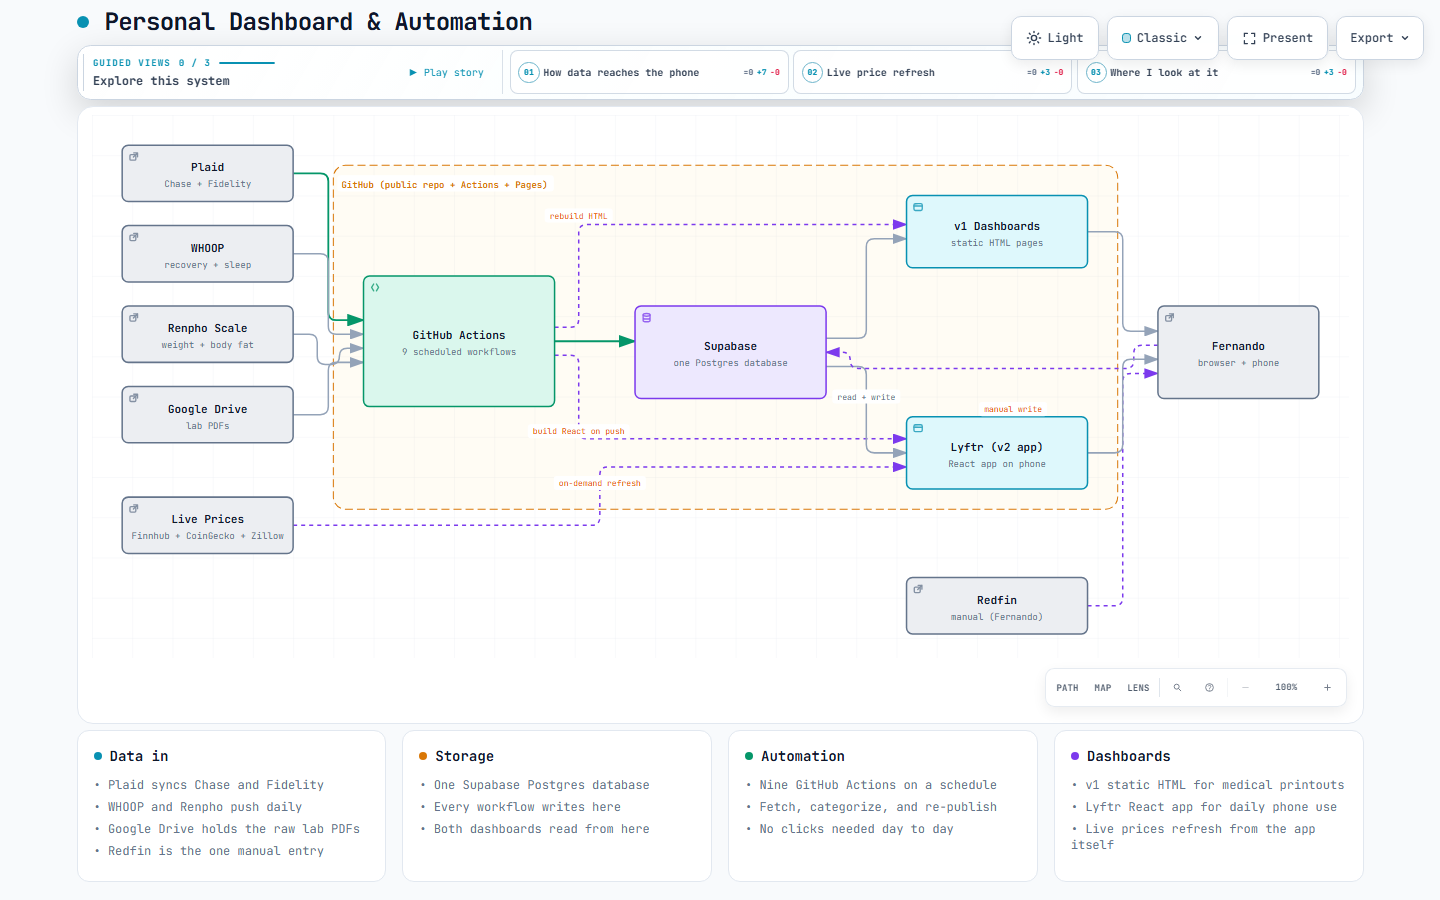
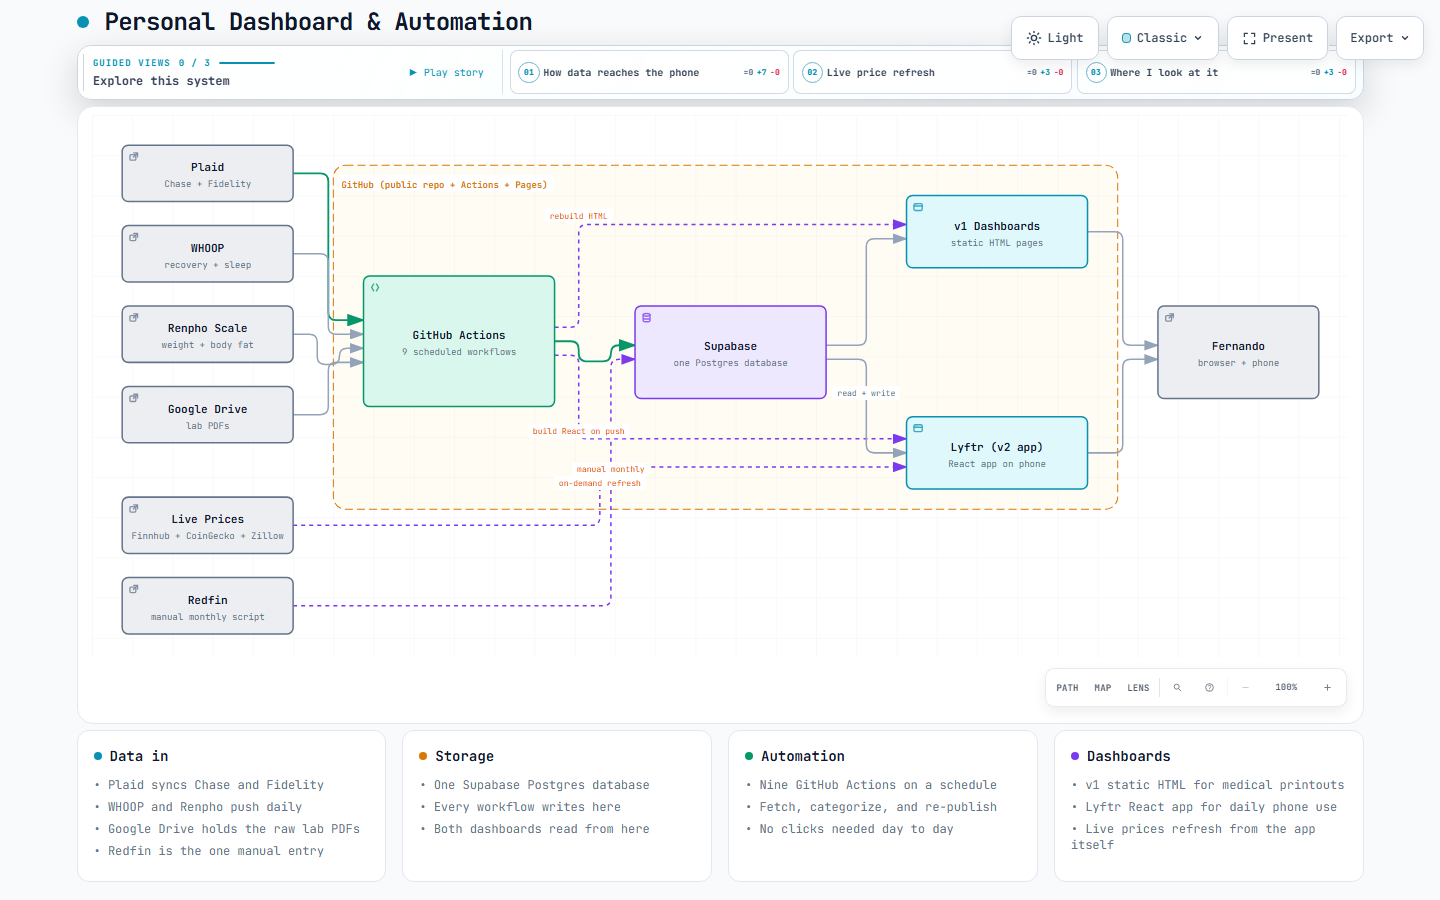
docs: correct Redfin flow — direct to Supabase, not via Fernando
Redfin data is written directly to Supabase by a manual monthly
script (fetch_redfin_property_value.py), not routed through Fernando
as an actor. The previous diagram misrepresented this as Redfin ->
Fernando -> Supabase, which suggested Fernando manually types values.

Fixed by placing Redfin in the bottom-left external-sources column
with a direct dashed edge to Supabase labeled "manual monthly".
Dropped the diagram to standard quality since showcase routing
constraints don't permit this arrow without collision, and semantic
accuracy matters more than showcase geometry checks.

diff --git a/docs/assets/architecture.html b/docs/assets/architecture.html
@@ -5130,7 +5130,7 @@ OTHER DEALINGS IN THE FONT SOFTWARE.
     <!-- Main Diagram -->
     <div class="diagram-container" data-detail-level="read"
          data-preset-badge-editorial-plate="ARCHIFY / PLATE 04">
-      <svg viewBox="0 0 1250 540" role="img" lang="en" aria-labelledby="archify-diagram-title archify-diagram-description" data-preset="classic" data-quality-profile="showcase">
+      <svg viewBox="0 0 1250 540" role="img" lang="en" aria-labelledby="archify-diagram-title archify-diagram-description" data-preset="classic" data-quality-profile="standard">
         <title id="archify-diagram-title">Personal Dashboard &amp; Automation</title>
         <desc id="archify-diagram-description">An architecture diagram generated by Archify.</desc>
         <!-- Definitions -->
@@ -5163,16 +5163,15 @@ OTHER DEALINGS IN THE FONT SOFTWARE.
         <path data-edge-from="whoop" data-edge-to="actions" data-edge-key="1" data-edge-id="whoop-in" data-composition-points="200,138;235,138;235,218;270,218" d="M 200 138 L 227 138 Q 235 138 235 146 L 235 210 Q 235 218 243 218 L 270 218" class="a-default" stroke-width="1.5" marker-end="url(#arrowhead)"/>
         <path data-edge-from="renpho" data-edge-to="actions" data-edge-key="2" data-edge-id="renpho-in" data-composition-points="200,218;224,218;224,248;246,248;246,232;270,232" d="M 200 218 L 216 218 Q 224 218 224 226 L 224 240 Q 224 248 232 248 L 238 248 Q 246 248 246 240 L 246 240 Q 246 232 254 232 L 270 232" class="a-default" stroke-width="1.5" marker-end="url(#arrowhead)"/>
         <path data-edge-from="gdrive" data-edge-to="actions" data-edge-key="3" data-edge-id="gdrive-in" data-composition-points="200,298;235,298;235,246;270,246" d="M 200 298 L 227 298 Q 235 298 235 290 L 235 254 Q 235 246 243 246 L 270 246" class="a-default" stroke-width="1.5" marker-end="url(#arrowhead)"/>
-        <path data-edge-from="actions" data-edge-to="supabase" data-edge-key="4" data-edge-id="write-db" data-composition-points="460,225;540,225" d="M 460 225 L 540 225" class="a-emphasis" stroke-width="1.8" marker-end="url(#arrowhead-emphasis)"/>
+        <path data-edge-from="actions" data-edge-to="supabase" data-edge-key="4" data-edge-id="write-db" data-composition-points="460,225;484,225;484,245;516,245;516,229;540,229" d="M 460 225 L 476 225 Q 484 225 484 233 L 484 237 Q 484 245 492 245 L 508 245 Q 516 245 516 237 L 516 237 Q 516 229 524 229 L 540 229" class="a-emphasis" stroke-width="1.8" marker-end="url(#arrowhead-emphasis)"/>
         <path data-edge-from="actions" data-edge-to="v1" data-edge-label="rebuild HTML" data-edge-key="5" data-edge-id="build-v1" data-composition-points="460,211;484,211;484,109;810,109" d="M 460 211 L 476 211 Q 484 211 484 203 L 484 117 Q 484 109 492 109 L 810 109" class="a-dashed" stroke-width="1.5" marker-end="url(#arrowhead-dashed)"/>
         <path data-edge-from="actions" data-edge-to="lyftr" data-edge-label="build React on push" data-edge-key="6" data-edge-id="build-v2" data-composition-points="460,239;484,239;484,322;810,322" d="M 460 239 L 476 239 Q 484 239 484 247 L 484 314 Q 484 322 492 322 L 810 322" class="a-dashed" stroke-width="1.5" marker-end="url(#arrowhead-dashed)"/>
-        <path data-edge-from="supabase" data-edge-to="v1" data-edge-key="7" data-edge-id="read-v1" data-composition-points="730,222;770,222;770,123;810,123" d="M 730 222 L 762 222 Q 770 222 770 214 L 770 131 Q 770 123 778 123 L 810 123" class="a-default" stroke-width="1.5" marker-end="url(#arrowhead)"/>
-        <path data-edge-from="supabase" data-edge-to="lyftr" data-edge-label="read + write" data-edge-key="8" data-edge-id="read-v2" data-composition-points="730,250;770,250;770,336;810,336" d="M 730 250 L 762 250 Q 770 250 770 258 L 770 328 Q 770 336 778 336 L 810 336" class="a-default" stroke-width="1.5" marker-end="url(#arrowhead)"/>
+        <path data-edge-from="supabase" data-edge-to="v1" data-edge-key="7" data-edge-id="read-v1" data-composition-points="730,229;770,229;770,123;810,123" d="M 730 229 L 762 229 Q 770 229 770 221 L 770 131 Q 770 123 778 123 L 810 123" class="a-default" stroke-width="1.5" marker-end="url(#arrowhead)"/>
+        <path data-edge-from="supabase" data-edge-to="lyftr" data-edge-label="read + write" data-edge-key="8" data-edge-id="read-v2" data-composition-points="730,243;770,243;770,336;810,336" d="M 730 243 L 762 243 Q 770 243 770 251 L 770 328 Q 770 336 778 336 L 810 336" class="a-default" stroke-width="1.5" marker-end="url(#arrowhead)"/>
         <path data-edge-from="prices" data-edge-to="lyftr" data-edge-label="on-demand refresh" data-edge-key="9" data-edge-id="live-prices" data-composition-points="200,408;505,408;505,350;810,350" d="M 200 408 L 497 408 Q 505 408 505 400 L 505 358 Q 505 350 513 350 L 810 350" class="a-dashed" stroke-width="1.5" marker-end="url(#arrowhead-dashed)"/>
-        <path data-edge-from="redfin" data-edge-to="fernando" data-edge-key="10" data-edge-id="redfin-to-me" data-composition-points="990,488;1025,488;1025,257;1060,257" d="M 990 488 L 1017 488 Q 1025 488 1025 480 L 1025 265 Q 1025 257 1033 257 L 1060 257" class="a-dashed" stroke-width="1.5" marker-end="url(#arrowhead-dashed)"/>
-        <path data-edge-from="fernando" data-edge-to="supabase" data-edge-label="manual write" data-edge-key="11" data-edge-id="me-to-db" data-composition-points="1060,229;1036,229;1036,252;754,252;754,236;730,236" d="M 1060 229 L 1044 229 Q 1036 229 1036 237 L 1036 244 Q 1036 252 1028 252 L 762 252 Q 754 252 754 244 L 754 244 Q 754 236 746 236 L 730 236" class="a-dashed" stroke-width="1.5" marker-end="url(#arrowhead-dashed)"/>
-        <path data-edge-from="v1" data-edge-to="fernando" data-edge-key="12" data-edge-id="look-v1" data-composition-points="990,116;1025,116;1025,215;1060,215" d="M 990 116 L 1017 116 Q 1025 116 1025 124 L 1025 207 Q 1025 215 1033 215 L 1060 215" class="a-default" stroke-width="1.5" marker-end="url(#arrowhead)"/>
-        <path data-edge-from="lyftr" data-edge-to="fernando" data-edge-key="13" data-edge-id="look-v2" data-composition-points="990,336;1025,336;1025,243;1060,243" d="M 990 336 L 1017 336 Q 1025 336 1025 328 L 1025 251 Q 1025 243 1033 243 L 1060 243" class="a-default" stroke-width="1.5" marker-end="url(#arrowhead)"/>
+        <path data-edge-from="redfin" data-edge-to="supabase" data-edge-label="manual monthly" data-edge-key="10" data-edge-id="redfin-in" data-composition-points="200,488;516,488;516,243;540,243" d="M 200 488 L 508 488 Q 516 488 516 480 L 516 251 Q 516 243 524 243 L 540 243" class="a-dashed" stroke-width="1.5" marker-end="url(#arrowhead-dashed)"/>
+        <path data-edge-from="v1" data-edge-to="fernando" data-edge-key="11" data-edge-id="look-v1" data-composition-points="990,116;1025,116;1025,229;1060,229" d="M 990 116 L 1017 116 Q 1025 116 1025 124 L 1025 221 Q 1025 229 1033 229 L 1060 229" class="a-default" stroke-width="1.5" marker-end="url(#arrowhead)"/>
+        <path data-edge-from="lyftr" data-edge-to="fernando" data-edge-key="12" data-edge-id="look-v2" data-composition-points="990,336;1025,336;1025,243;1060,243" d="M 990 336 L 1017 336 Q 1025 336 1025 328 L 1025 251 Q 1025 243 1033 243 L 1060 243" class="a-default" stroke-width="1.5" marker-end="url(#arrowhead)"/>
 
         <!-- Components -->
         <g id="node-plaid" data-node-id="plaid" data-node-label="Plaid" tabindex="0" role="button" aria-label="Focus Plaid, Chase + Fidelity, Architecture component" aria-pressed="false" data-node-kind="external" data-node-sublabel="Chase + Fidelity" data-node-context="Architecture component">
@@ -5235,16 +5234,16 @@ OTHER DEALINGS IN THE FONT SOFTWARE.
         <text data-detail="context" x="115" y="422" class="t-muted" font-size="9" text-anchor="middle">Finnhub + CoinGecko + Zillow</text>
         </g>
 
-        <g id="node-redfin" data-node-id="redfin" data-node-label="Redfin" tabindex="0" role="button" aria-label="Focus Redfin, manual (Fernando), Architecture component" aria-pressed="false" data-node-kind="external" data-node-sublabel="manual (Fernando)" data-node-context="Architecture component">
-          <title>Redfin · manual (Fernando) · Architecture component</title>
-          <rect x="810" y="460" width="180" height="56" rx="6" class="c-mask"/>
-          <rect x="810" y="460" width="180" height="56" rx="6" class="c-external" stroke-width="1.5"/>
-          <g aria-hidden="true" data-semantic-sigil="external" class="semantic-sigil s-external" transform="translate(816 466) scale(0.6875)">
+        <g id="node-redfin" data-node-id="redfin" data-node-label="Redfin" tabindex="0" role="button" aria-label="Focus Redfin, manual monthly script, Architecture component" aria-pressed="false" data-node-kind="external" data-node-sublabel="manual monthly script" data-node-context="Architecture component">
+          <title>Redfin · manual monthly script · Architecture component</title>
+          <rect x="30" y="460" width="170" height="56" rx="6" class="c-mask"/>
+          <rect x="30" y="460" width="170" height="56" rx="6" class="c-external" stroke-width="1.5"/>
+          <g aria-hidden="true" data-semantic-sigil="external" class="semantic-sigil s-external" transform="translate(36 466) scale(0.6875)">
             <rect x="2.5" y="5" width="8.5" height="8" rx="1.5"/>
             <path d="M8 2.5h5.5V8M13.5 2.5 7.5 8.5"/>
           </g>
-          <text data-node-label="" data-detail-anchor="" x="900" y="486" class="t-primary" font-size="11" font-weight="600" text-anchor="middle">Redfin</text>
-        <text data-detail="context" x="900" y="502" class="t-muted" font-size="9" text-anchor="middle">manual (Fernando)</text>
+          <text data-node-label="" data-detail-anchor="" x="115" y="486" class="t-primary" font-size="11" font-weight="600" text-anchor="middle">Redfin</text>
+        <text data-detail="context" x="115" y="502" class="t-muted" font-size="9" text-anchor="middle">manual monthly script</text>
         </g>
 
         <g id="node-actions" data-node-id="actions" data-node-label="GitHub Actions" tabindex="0" role="button" aria-label="Focus GitHub Actions, 9 scheduled workflows, GitHub (public repo + Actions + Pages)" aria-pressed="false" data-node-kind="backend" data-node-sublabel="9 scheduled workflows" data-node-tag="cron" data-node-context="GitHub (public repo + Actions + Pages)">
@@ -5328,17 +5327,16 @@ OTHER DEALINGS IN THE FONT SOFTWARE.
         </g>
 
         <g data-detail="context" data-edge-from="supabase" data-edge-to="lyftr" data-edge-label="read + write" data-edge-key="8" data-edge-id="read-v2">
-          <rect x="736.2" y="273" width="67.6" height="14" rx="3" class="c-mask"/>
-          <text x="770" y="283" class="t-muted" font-size="8" text-anchor="middle">read + write</text>
+          <rect x="736.2" y="269.5" width="67.6" height="14" rx="3" class="c-mask"/>
+          <text x="770" y="279.5" class="t-muted" font-size="8" text-anchor="middle">read + write</text>
         </g>
         <g data-detail="context" data-edge-from="prices" data-edge-to="lyftr" data-edge-label="on-demand refresh" data-edge-key="9" data-edge-id="live-prices">
           <rect x="459.2" y="359" width="91.6" height="14" rx="3" class="c-mask"/>
           <text x="505" y="369" class="t-messagebus" font-size="8" text-anchor="middle">on-demand refresh</text>
         </g>
-
-        <g data-detail="context" data-edge-from="fernando" data-edge-to="supabase" data-edge-label="manual write" data-edge-key="11" data-edge-id="me-to-db">
-          <rect x="882.2" y="285.5" width="67.6" height="14" rx="3" class="c-mask"/>
-          <text x="916" y="295.5" class="t-messagebus" font-size="8" text-anchor="middle">manual write</text>
+        <g data-detail="context" data-edge-from="redfin" data-edge-to="supabase" data-edge-label="manual monthly" data-edge-key="10" data-edge-id="redfin-in">
+          <rect x="477.4" y="345.5" width="77.2" height="14" rx="3" class="c-mask"/>
+          <text x="516" y="355.5" class="t-messagebus" font-size="8" text-anchor="middle">manual monthly</text>
         </g>
 
 

diff --git a/README.md b/README.md
@@ -52,7 +52,7 @@ In plain words:
 Two things happen outside the daily automation:
 
 - **Live prices** for stocks, crypto, and the condo — I press a button in the app when I want them refreshed.
-- **Redfin** — the one thing I still enter by hand once a month, since Redfin blocks in-browser fetching.
+- **Redfin** — the one thing without an API. I run a script by hand once a month, which writes the number straight into Supabase alongside the automated Zillow value.
 
 ---
 
